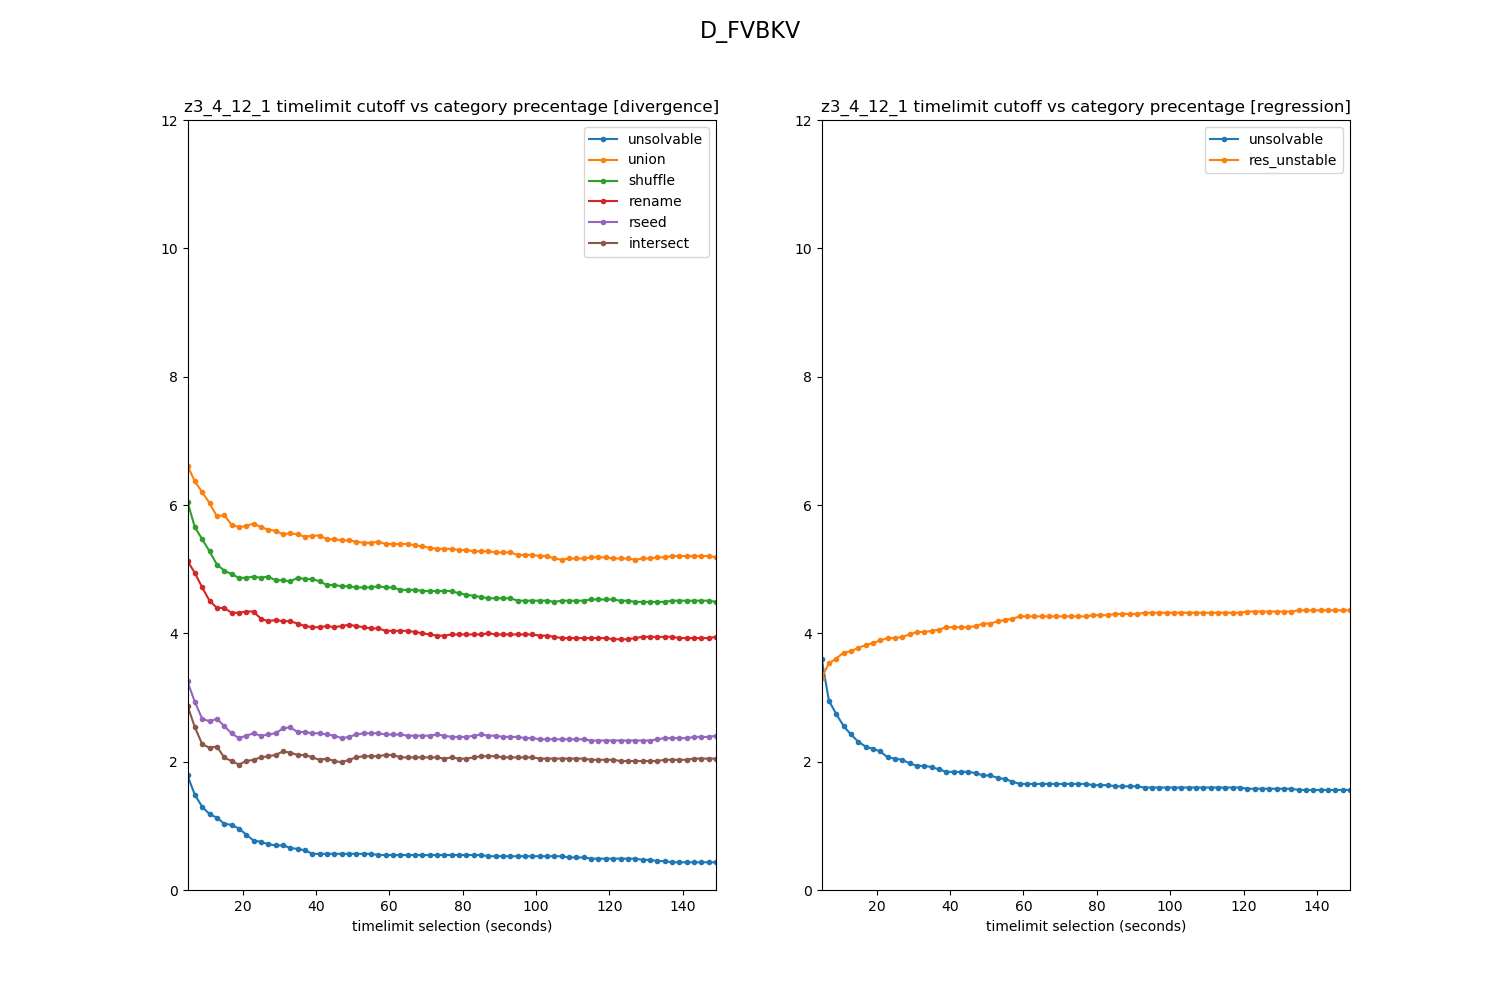
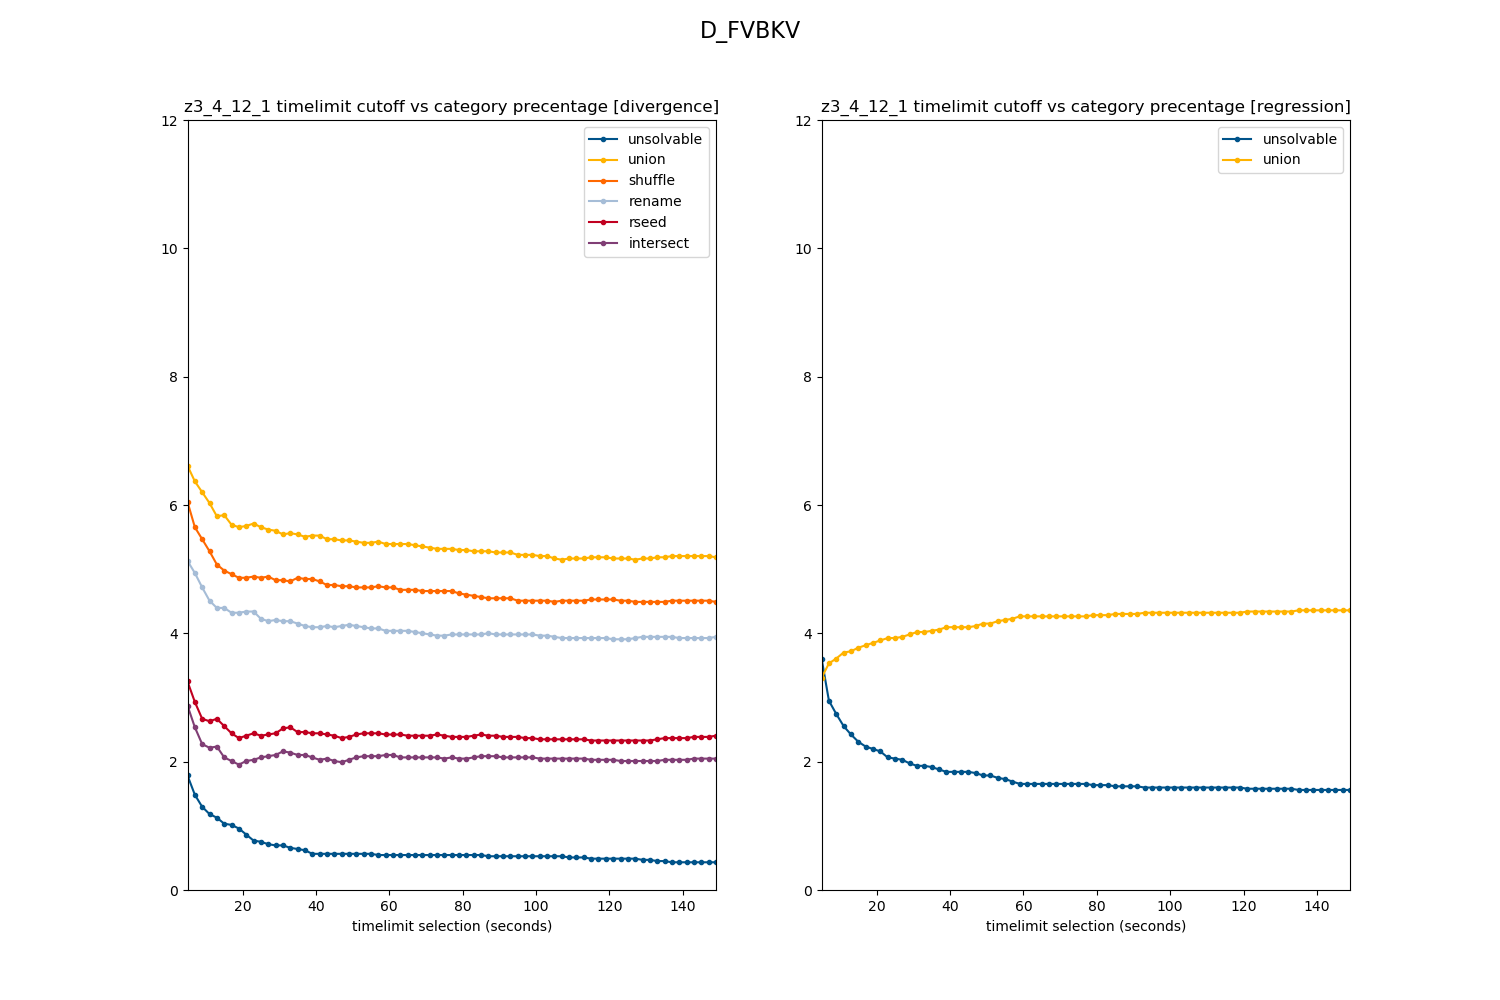
update figures

diff --git a/scripts/analyzer.py b/scripts/analyzer.py
@@ -175,40 +175,6 @@ def group_time_std(times):
     assert len(times) != 0
     return as_seconds(np.std(times))
 
-def group_success_rate(vres):
-    assert len(vres) != 0
-    return percentage(vres.count("unsat"), len(vres))
-
-# def split_summary_table(cfg):
-#     con, cur = get_cursor(cfg.qcfg.db_path)
-#     summary_table_name = cfg.get_summary_table_name()
-#     # summaries = dict()
-
-#     for solver in cfg.samples:
-#         solver = str(solver)
-#         new_table_name = cfg.qcfg.get_solver_table_name(solver) + "_summary"
-
-#         res = cur.execute(f"""SELECT * FROM {summary_table_name}
-#             WHERE solver = ?""", (solver,))
-#         rows = res.fetchall()
-#         if len(rows) == 0:
-#             print(f"[INFO] skipping {summary_table_name} {solver}")
-#             continue
-
-#         cur.execute(f"""DROP TABLE IF EXISTS {new_table_name}""")
-
-#         cur.execute(f"""CREATE TABLE {new_table_name} (
-#             vanilla_path TEXT,
-#             pretubrations TEXT,
-#             summaries BLOB)""")
-
-#         cur.execute(f"""
-#             INSERT INTO {new_table_name} 
-#             SELECT vanilla_path, pretubrations, summaries FROM {summary_table_name}
-#             WHERE solver = ?""", (solver,))
-#     con.commit()
-#     con.close()
-
 def load_solver_summary(cfg, solver, skip=set()):
     con, cur = get_cursor(cfg.qcfg.db_path)
     new_table_name = cfg.qcfg.get_solver_table_name(solver) + "_summary"
@@ -285,11 +251,7 @@ class Thresholds:
         self.timeout = 1e6
 
         self.unsolvable = 5
-        assert 0 < self.unsolvable < 100
-
         self.res_stable = 95
-        assert 0 < self.res_stable < 100
-
         self.time_std = None
 
         if method == "regression":
@@ -309,8 +271,9 @@ class Thresholds:
 
         timeout = max(ptime * 1.5, ptime + 50000)
         success = count_within_timeout(group_blob, RCode.UNSAT, timeout)
-        # if success < len(group_blob[0]) * 0.8:
-        #     return Stablity.RES_UNSTABLE
+
+        if success < len(group_blob[0]) * 0.8:
+            return Stablity.RES_UNSTABLE
 
         size = len(group_blob[0])
         if success != size:
@@ -368,12 +331,12 @@ class Thresholds:
                                         prop_var=value)
 
         if p_value <= self.confidence:
-            std = np.std(times)
-            T = (size - 1) * ((std / self.time_std) ** 2)
-            if T > scipy.stats.chi2.ppf(1-self.confidence, df=size-1):
-                return Stablity.TIME_UNSTABLE
-            else:
-                return Stablity.STABLE
+            if self.time_std is not None:
+                std = np.std(times)
+                T = (size - 1) * ((std / self.time_std) ** 2)
+                if T > scipy.stats.chi2.ppf(1-self.confidence, df=size-1):
+                    return Stablity.TIME_UNSTABLE
+            return Stablity.STABLE
 
         return Stablity.RES_UNSTABLE
     
@@ -590,7 +553,7 @@ def dump_all(cfgs=ALL_CFGS):
     category_count = len(Stablity)
     thres = Thresholds("strict")
     thres.timeout = 61e3 # 1 min
-    # thres.time_std = 5e3 # 5 sec
+    thres.time_std = 5e3 # 5 sec
 
     data = np.zeros((len(cfgs), len(solver_names), category_count))
     for cfg in cfgs:
@@ -720,24 +683,128 @@ def compare_vbkvs(linear, dynamic):
     plt.savefig("fig/compare.pdf")
 
 def v_test():
-    # thres = Thresholds("strict")
-    # thres.timeout = 61e3 # 1 min
+    from runner import Runner
+    thres = Thresholds("strict")
+    thres.timeout = 61e3 # 1 min
 
-    # V_TEST = ProjectConfig("v_test", FrameworkName.VERUS, Z3_4_8_11)
-    # cfg = ExpConfig("V_TEST", V_TEST, Z3_SOLVERS_ALL, "data/test.db")
+    V_TEST = ProjectConfig("v_test", FrameworkName.VERUS, Z3_4_10_1)
+    cfg1 = ExpConfig("V_TEST", V_TEST, [Z3_4_10_1], "data/test.db")
 
-    # for solver in Z3_SOLVERS_ALL:
-        # build_solver_summary_table(cfg, solver)
+    V2_TEST = ProjectConfig("v_test2", FrameworkName.VERUS, Z3_4_10_1)
+    cfg2 = ExpConfig("V2_TEST", V2_TEST, [Z3_4_10_1], "data/test.db")
 
-    # summaries = load_solver_summaries(cfg, skip_unknowns=False)
+    V3_TEST = ProjectConfig("v_test3", FrameworkName.VERUS, Z3_4_10_1)
+    cfg3 = ExpConfig("V3_TEST", V3_TEST, [Z3_4_10_1], "data/test.db")
+    
+    cfg = cfg3
+
+    cfg.qcfg.enabled_muts = [Mutation.SHUFFLE, Mutation.RSEED]
+    cfg.num_procs = 6
+    r = Runner([cfg], override=True, remove_mut=False)
+
+    build_solver_summary_table(cfg, Z3_4_10_1)
+
     # print([str(c) for c in Stablity])
-    # for solver in Z3_SOLVERS_ALL:
-    #     if solver in summaries:
-    #         items = categorize_qeuries(summaries[solver], thres)
-    #         ps, _ = get_category_precentages(items)
-    #         ps = [ps[c] for c in Stablity]
-    #         print(solver, [round(p, 2) for p in ps])
+    
+    # for cfg in [cfg1, cfg2, cfg3]:
+    #     summaries = load_solver_summaries(cfg, skip_unknowns=False)
+    #     for solver in Z3_SOLVERS_ALL:
+    #         if solver in summaries:
+    #             items = categorize_qeuries(summaries[solver], thres)
+    #             ps, _ = get_category_precentages(items)
+    #             ps = [ps[c] for c in Stablity]
+    #             print(solver, [round(p, 2) for p in ps])
+    #     print("")
 
-    # cfg.num_procs = 4
-    # r = Runner([cfg])
-    pass
+# def analyze_regression(cfg, solver):
+#     unkowns = get_unknowns(cfg)
+#     nrows = load_solver_summary(cfg, solver, unkowns)
+#     regres = []
+#     tregres = []
+#     imporoves = []
+#     for query_row in nrows:
+#         # query = query_row[0]
+#         group_blobs = query_row[2]
+#         plain_res = group_blobs[0][0][0]
+#         plain_time = group_blobs[0][1][0]
+
+#         # print(group_blobs.shape)
+#         for group_blob in group_blobs:
+#             ress = group_blob[0][1:]
+#             times = group_blob[1][1:]
+#             # print(len(ress), len(times))
+#             if plain_res == RCode.UNSAT.value:
+#                 if np.all(ress == RCode.UNSAT.value):
+#                     ratio = np.median(times) / plain_time
+#                     if ratio > 1.5:
+#                         print(ratio)
+#                 else:
+#                     print(np.sum(ress == RCode.UNSAT.value))
+                    
+            # and plain_res == RCode.UNSAT.value:
+    #             if time > plain_time:
+    #                 print("regression", query)
+    #         if res == RCode.UNSAT.value and plain_res != RCode.UNSAT.value:
+    #             print("improve", query)
+    #     # print(plain_res, np.sum(group_blobs[0][0][1:] == RCode.UNSAT.value) / 60)
+    #     times = group_blobs[0][1][1:]
+    #     successes = np.sum(group_blobs[0][0][1:] == RCode.UNSAT.value)
+    #     if plain_res == RCode.UNSAT.value:
+    #         regres.append(successes * 100 / 60)
+    #         tregres.append(np.median(times) / plain_time)
+    #     else:
+    #         imporoves.append(successes * 100 / 60)
+    # print(np.sum(np.array(regres) < 80))
+    # print(np.sum(np.array(tregres) > 1.5))
+    # print(imporoves)
+
+        # tt = (group_blobs[0][1][0], np.median(times), np.min(times), np.max(times))
+        # print(tt)
+
+def do_stuff(cfg):
+    summaries = load_solver_summaries(cfg)
+    # perturbs = [str(p) for p in cfg.qcfg.enabled_muts]
+
+    solver_count = len(cfg.samples.keys())
+    cut_figure, cut_aixs = setup_fig(solver_count, 1)
+    xs = [i for i in range(5, 62, 1)]
+    perturbs = [str(p) for p in cfg.qcfg.enabled_muts]
+    skip = get_unknowns(cfg)
+
+    for j, solver in enumerate(cfg.samples.keys()):
+        sps = cut_aixs
+        if solver_count != 1:
+            sps = cut_aixs[j]
+
+        rows = summaries[solver]
+        pts = [[], [], []]
+        for query_row in rows:
+            group_blobs = query_row[2]
+            t = min(group_blobs[0][1][0], 60000)
+            for j in range(3):
+                times = group_blobs[:,1][j]
+                times = np.clip(times, 0, 60000)
+                pts[j].append((t, np.median(times), np.min(times), np.max(times)))
+
+        for pt in pts:
+            pt.sort(key=lambda x: x[0])
+
+        xs = np.arange(start=0, stop=len(pts[0])*3, step=3)
+
+        sps.scatter([p[0] for p in pts[0]], [p[1] for p in pts[0]], label="shuffle", marker='.')
+        sps.scatter([p[0] for p in pts[1]], [p[1] for p in pts[1]], label="rename", marker='.')
+        sps.scatter([p[0] for p in pts[2]], [p[2] for p in pts[1]], label="rseed", marker='.')
+        x = np.linspace(0, 60000, 100)
+        y = 2*x
+        sps.plot(x, y)
+        y = x/2
+        sps.plot(x, y)
+        
+        sps.set_ylim(0, 60000)
+        sps.set_xlim(0, 60000)
+
+        sps.set_aspect('equal', adjustable='box')
+        sps.legend()
+        plt.tight_layout()
+        name = cfg.qcfg.name
+        plt.savefig(f"fig/time_scatter/{name}.png")

diff --git a/scripts/main.py b/scripts/main.py
@@ -32,19 +32,29 @@ if __name__ == '__main__':
     stdout, _, _ = subprocess_run("cat /sys/devices/system/cpu/cpu*/cpufreq/scaling_governor | uniq", 0)
     assert stdout == "performance"
 
+    # v_test()
     # dump_all()
+
     # plot_query_sizes(cfgs)
     # compare_vbkvs(D_LVBKV_CFG, D_FVBKV_CFG)
     # export_timeouts(D_LVBKV_CFG, Z3_4_12_1)
 
     # cfg = ExpConfig("FS_DICE", FS_DICE, [Z3_4_12_1], DB_PATH)
-    # plot_cutoff(cfg)
+    
+    # for cfg in [D_KOMODO_CFG, D_LVBKV_CFG, D_FVBKV_CFG]:
+    #     summaries = load_solver_summaries(cfg, skip_unknowns=False)
+    #     th = Thresholds("strict")
+    #     th.timeout = 6e4
+    #     categories1 = categorize_qeuries(summaries[Z3_4_8_5], th)
+    #     categories2 = categorize_qeuries(summaries[Z3_4_8_8], th)
+    #     diff = categories2[Stablity.RES_UNSTABLE.value] - categories1[Stablity.RES_UNSTABLE.value]
+    #     print(len(diff))
 
-    # for cfg in ALL_CFGS:
-    #     plot_cutoff(cfg)
+    # for cfg in tqdm(ALL_CFGS):
+    #     do_stuff(cfg)
 
-    # plot_ext_cutoff(D_FVBKV_CFG)
+    # plot_ext_cutoff(D_LVBKV_CFG)
+    # import_database("s1905")
 
-    # import_database("s1907")
-    # extend_solver_summary_table(D_FVBKV_CFG, D_FVBKV_TO_CFG, Z3_4_12_1)
-    # build_solver_summary_table(FS_VWASM_CFG, Z3_4_12_1)
+    # extend_solver_summary_table(D_LVBKV_CFG, D_LVBKV_TO_CFG, Z3_4_12_1)
+    # build_solver_summary_table(S_CERTIKOS_CFG, Z3_4_12_1)

diff --git a/scripts/configs/projects.py b/scripts/configs/projects.py
@@ -42,14 +42,14 @@ Z3_4_8_5 = SolverInfo("z3-4.8.5","2019/06/02")
 Z3_4_8_8 = SolverInfo("z3-4.8.8","2020/05/08")
 Z3_4_8_11 = SolverInfo("z3-4.8.11","2021/07/11")
 
+Z3_4_10_1 = SolverInfo("z3-4.10.1","2021/07/22")
+
 # Z3_4_8_17 = SolverInfo("z3-4.8.17","2022/05/04")
 Z3_4_11_2 = SolverInfo("z3-4.11.2", "2022/09/03")
 Z3_4_12_1 = SolverInfo("z3-4.12.1", "2021/01/18")
 
 CVC5_1_0_3 = SolverInfo("cvc5-1.0.3", "2022/12/12")
 
-# ALL_SOLVERS = [Z3_4_5_0, Z3_4_4_2, Z3_4_11_2, CVC5_1_0_3]
-# ALL_SOLVERS = [Z3_4_4_2, Z3_4_5_0, Z3_4_6_0, Z3_4_8_5, Z3_4_8_6, Z3_4_8_7, Z3_4_8_8, Z3_4_8_11, Z3_4_8_17, Z3_4_11_2, CVC5_1_0_3]
 Z3_SOLVERS_ALL = [Z3_4_4_2, Z3_4_5_0, Z3_4_6_0, Z3_4_8_5, Z3_4_8_8, Z3_4_8_11, Z3_4_11_2, Z3_4_12_1]
 
 # ALL_SOLVERS = [SolverInfo(p) for p in os.listdir(SOLVER_BINS_DIR)]

diff --git a/scripts/clean_utils.py b/scripts/clean_utils.py
@@ -195,12 +195,12 @@ def split_queries(file_path):
 
         if "check-sat" in cmd:
             splits += 1
-            out_f = open(f"data/v_test_z3_clean/{file_path[:-5]}.{splits}.smt2", "w+")
+            out_f = open(f"data/v_test3_z3_clean/{file_path[:-5]}.{splits}.smt2", "w+")
             for item in stack:
                 out_f.writelines(item)
     return cmds
 
-split_queries("root.smt2")
+split_queries("top_sort_dfs.smt2")
 
 # FS_DICE = ProjectConfig("fs_dice", FrameworkName.FSTAR, Z3_4_8_5)
 # clean_fs_project(FS_DICE, None, None)
